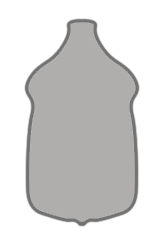
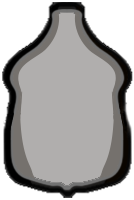
elephant display logic

diff --git a/client/src/data/mapCoordinates.ts b/client/src/data/mapCoordinates.ts
@@ -19,7 +19,12 @@ export interface UnrestPosition extends MapPosition {
   regionId: string;
 }
 
-// Order positions for each region (approximate positions - you'll need to adjust these)
+export interface ElephantPosition extends MapPosition {
+  regionIdFront: string;
+  regionIdBack: string;
+  rotation: string;
+}
+
 export const orderPositions: Record<string, OrderPosition[]> = {
   [REGION_IDS.PUNJAB]: [
     { orderId: '1', x: 20.5, y: 7.7 }
@@ -77,3 +82,84 @@ export const unrestPositions: Record<string, UnrestPosition> = {
   [REGION_IDS.MYSORE]: { regionId: REGION_IDS.MYSORE, x: 39.41, y: 83.03 },
   [REGION_IDS.MADRAS]: { regionId: REGION_IDS.MADRAS, x: 46.75, y: 67.8 }
 };
+
+export const elephantPositions:  Record<string, ElephantPosition[]> = {
+  [REGION_IDS.PUNJAB + REGION_IDS.BOMBAY]: [
+    {regionIdFront: REGION_IDS.PUNJAB, regionIdBack: REGION_IDS.BOMBAY, rotation: "rotate-[10deg]", x: 11.5, y: 17.7 }
+  ],
+  [REGION_IDS.BOMBAY + REGION_IDS.PUNJAB]: [
+    {regionIdFront: REGION_IDS.BOMBAY, regionIdBack: REGION_IDS.PUNJAB, rotation: "rotate-[160deg]", x: 12.5, y: 18.7 }
+  ],
+  [REGION_IDS.PUNJAB + REGION_IDS.DELHI]: [
+    {regionIdFront: REGION_IDS.PUNJAB, regionIdBack: REGION_IDS.DELHI, rotation: "-rotate-[80deg]", x: 27.5, y: 5.7 }
+  ],
+  [REGION_IDS.DELHI + REGION_IDS.PUNJAB]: [
+    {regionIdFront: REGION_IDS.DELHI, regionIdBack: REGION_IDS.PUNJAB, rotation: "rotate-[110deg]", x: 28.5, y: 5.7 }
+  ],
+  [REGION_IDS.DELHI + REGION_IDS.BOMBAY]: [
+    {regionIdFront: REGION_IDS.DELHI, regionIdBack: REGION_IDS.BOMBAY, rotation: "rotate-[30deg]", x: 30.5, y: 15.2 }
+  ],
+  [REGION_IDS.BOMBAY + REGION_IDS.DELHI]: [
+    {regionIdFront: REGION_IDS.BOMBAY, regionIdBack: REGION_IDS.DELHI, rotation: "rotate-[220deg]", x: 30.3, y: 15.7 }
+  ],
+  [REGION_IDS.BOMBAY + REGION_IDS.MARATHA]: [
+    {regionIdFront: REGION_IDS.BOMBAY, regionIdBack: REGION_IDS.MARATHA, rotation: "rotate-[95deg]", x: 33.2, y: 25.7 }
+  ],
+  [REGION_IDS.MARATHA + REGION_IDS.BOMBAY]: [
+    {regionIdFront: REGION_IDS.MARATHA, regionIdBack: REGION_IDS.BOMBAY, rotation: "rotate-[265deg]", x: 32.3, y: 24.9 }
+  ],
+  [REGION_IDS.BOMBAY + REGION_IDS.HYDERABAD]: [
+    {regionIdFront: REGION_IDS.BOMBAY, regionIdBack: REGION_IDS.HYDERABAD, rotation: "rotate-[110deg]", x: 31.8, y: 42.7 }
+  ],
+  [REGION_IDS.HYDERABAD + REGION_IDS.BOMBAY]: [
+    {regionIdFront: REGION_IDS.HYDERABAD, regionIdBack: REGION_IDS.BOMBAY, rotation: "rotate-[290deg]", x: 31.8, y: 41.7 }
+  ],
+  [REGION_IDS.BOMBAY + REGION_IDS.MYSORE]: [
+    {regionIdFront: REGION_IDS.BOMBAY, regionIdBack: REGION_IDS.MYSORE, rotation: "-rotate-[10deg]", x: 28.8, y: 59.7 }
+  ],
+  [REGION_IDS.MYSORE + REGION_IDS.BOMBAY]: [
+    {regionIdFront: REGION_IDS.MYSORE, regionIdBack: REGION_IDS.BOMBAY, rotation: "rotate-[160deg]", x: 28.8, y: 60.7 }
+  ],
+  [REGION_IDS.DELHI + REGION_IDS.MARATHA]: [
+    {regionIdFront: REGION_IDS.DELHI, regionIdBack: REGION_IDS.MARATHA, rotation: "rotate-[185deg]", x: 41.5, y: 17.2 }
+  ],
+  [REGION_IDS.MARATHA + REGION_IDS.DELHI]: [
+    {regionIdFront: REGION_IDS.MARATHA, regionIdBack: REGION_IDS.DELHI, rotation: "rotate-[10deg]", x: 41.4, y: 16.7 }
+  ],
+  [REGION_IDS.DELHI + REGION_IDS.BENGAL]: [
+    {regionIdFront: REGION_IDS.DELHI, regionIdBack: REGION_IDS.BENGAL, rotation: "rotate-[95deg]", x: 67, y: 11.2 }
+  ],
+  [REGION_IDS.BENGAL + REGION_IDS.DELHI]: [
+    {regionIdFront: REGION_IDS.BENGAL, regionIdBack: REGION_IDS.DELHI, rotation: "rotate-[275deg]", x: 65.9, y: 11.7 }
+  ],
+  [REGION_IDS.MARATHA + REGION_IDS.BENGAL]: [
+    {regionIdFront: REGION_IDS.MARATHA, regionIdBack: REGION_IDS.BENGAL, rotation: "rotate-[65deg]", x: 65, y: 29.2 }
+  ],
+  [REGION_IDS.BENGAL + REGION_IDS.MARATHA]: [
+    {regionIdFront: REGION_IDS.BENGAL, regionIdBack: REGION_IDS.MARATHA, rotation: "rotate-[240deg]", x: 64.9, y: 29 }
+  ],
+  [REGION_IDS.MARATHA + REGION_IDS.HYDERABAD]: [
+    {regionIdFront: REGION_IDS.MARATHA, regionIdBack: REGION_IDS.HYDERABAD, rotation: "rotate-[195deg]", x: 41, y: 42.2 }
+  ],
+  [REGION_IDS.HYDERABAD + REGION_IDS.MARATHA]: [
+    {regionIdFront: REGION_IDS.HYDERABAD, regionIdBack: REGION_IDS.MARATHA, rotation: "rotate-[25deg]", x: 41, y: 41.5 }
+  ],
+  [REGION_IDS.HYDERABAD + REGION_IDS.MYSORE]: [
+    {regionIdFront: REGION_IDS.HYDERABAD, regionIdBack: REGION_IDS.MYSORE, rotation: "rotate-[215deg]", x: 38.2, y: 60.8 }
+  ],  
+  [REGION_IDS.MYSORE + REGION_IDS.HYDERABAD]: [
+    {regionIdFront: REGION_IDS.MYSORE, regionIdBack: REGION_IDS.HYDERABAD, rotation: "rotate-[45deg]", x: 39, y: 59.8 }
+  ],
+  [REGION_IDS.HYDERABAD + REGION_IDS.MADRAS]: [
+    {regionIdFront: REGION_IDS.HYDERABAD, regionIdBack: REGION_IDS.MADRAS, rotation: "-rotate-[15deg]", x: 48.2, y: 60.3 }
+  ],  
+  [REGION_IDS.MADRAS + REGION_IDS.HYDERABAD]: [
+    {regionIdFront: REGION_IDS.MADRAS, regionIdBack: REGION_IDS.HYDERABAD, rotation: "rotate-[165deg]", x: 49, y: 61.8 }
+  ],
+  [REGION_IDS.MYSORE + REGION_IDS.MADRAS]: [
+    {regionIdFront: REGION_IDS.MYSORE, regionIdBack: REGION_IDS.MADRAS, rotation: "-rotate-[105deg]", x: 44.2, y: 74.3 }
+  ],  
+  [REGION_IDS.MADRAS + REGION_IDS.MYSORE]: [
+    {regionIdFront: REGION_IDS.MADRAS, regionIdBack: REGION_IDS.MYSORE, rotation: "rotate-[70deg]", x: 45.5, y: 73.8 }
+  ],
+}

diff --git a/client/src/components/map/MapView.tsx b/client/src/components/map/MapView.tsx
@@ -1,7 +1,7 @@
 import React, { useState, useRef, useCallback, useEffect } from 'react';
 import { useGameStore } from '../../store';
 import { REGION_IDS } from '../../data/initialState';
-import { orderPositions, towerPositions, unrestPositions } from '../../data/mapCoordinates';
+import { orderPositions, towerPositions, unrestPositions, elephantPositions } from '../../data/mapCoordinates';
 
 import baseMapImage from '../../assets/images/map/india_base.png';
 
@@ -303,7 +303,7 @@ const MapView: React.FC<MapViewProps> = ({ selectedRegion, onRegionSelect, curre
     }
     calculateDisplayRect();
   };
-
+  
   // Render orders for a specific region
   const renderOrders = (regionId: string) => {
     const regionOrders = orderPositions[regionId] || [];
@@ -435,6 +435,33 @@ const MapView: React.FC<MapViewProps> = ({ selectedRegion, onRegionSelect, curre
       );
     });
   };
+  const renderElephant = (regionIdFront: string, regionIdBack: string) => {
+    const elephant = elephantPositions[regionIdFront+regionIdBack][0] || [];
+    console.log(elephant);
+    if (!elephant) return null;
+
+    const absolutePos = getAbsolutePosition(elephant);
+    
+    return (
+      <div
+        key={`elephant-facing-${elephant.regionIdFront}-from-${elephant.regionIdBack}`}
+        className="absolute"
+        style={{
+          left: absolutePos.x - 20,
+          top: absolutePos.y - 20,
+          zIndex: 56
+        }}
+        title={`${elephant.regionIdFront} facing Elephant from ${elephant.regionIdBack}`}
+      >
+        <img 
+          src={elephantImg} 
+          alt="Elephant" 
+          className={`w-7 h-10 transform ${elephant.rotation}`} 
+        />
+      </div>
+    );
+  };
+  
   // Don't render detailed view anymore since we're handling everything on the main map
   if (isZoomed && selectedRegion) {
     return (
@@ -520,6 +547,9 @@ const MapView: React.FC<MapViewProps> = ({ selectedRegion, onRegionSelect, curre
         </div>
       )}
 
+      {/* Render Elephant */}
+      {renderElephant("bombay", "maratha")}
+
       {/* Render Orders */}
       {Object.keys(gameState.regions).map(regionId => 
         renderOrders(regionId)
@@ -530,6 +560,7 @@ const MapView: React.FC<MapViewProps> = ({ selectedRegion, onRegionSelect, curre
 
       {/* Render Unrest */}
       {renderUnrest()}
+
       {/* Render Governor Overlays */}
       {renderGovernorOverlays()}
       

diff --git a/client/src/components/phases/CompanyPhase.tsx b/client/src/components/phases/CompanyPhase.tsx
@@ -53,6 +53,11 @@ const CompanyPhase: React.FC<CompanyPhaseProps> = ({ selectedRegion }) => {
 
   const handleDecreaseTowerHeight = () => {
     if (!selectedRegion || !selectedRegionData) return;
+    if (selectedRegionData.towerHeight == 1) {
+      updateRegion(selectedRegion, { 
+        companyControlled: true
+      });
+    }
     updateRegion(selectedRegion, { 
       towerHeight: Math.max(0, selectedRegionData.towerHeight - 1) 
     });
@@ -60,6 +65,11 @@ const CompanyPhase: React.FC<CompanyPhaseProps> = ({ selectedRegion }) => {
 
   const handleIncreaseTowerHeight = () => {
     if (!selectedRegion || !selectedRegionData) return;
+    if (selectedRegionData.towerHeight == 0) {
+      updateRegion(selectedRegion, { 
+        companyControlled: false
+      });
+    }
     updateRegion(selectedRegion, { 
       towerHeight: selectedRegionData.towerHeight + 1 
     });
